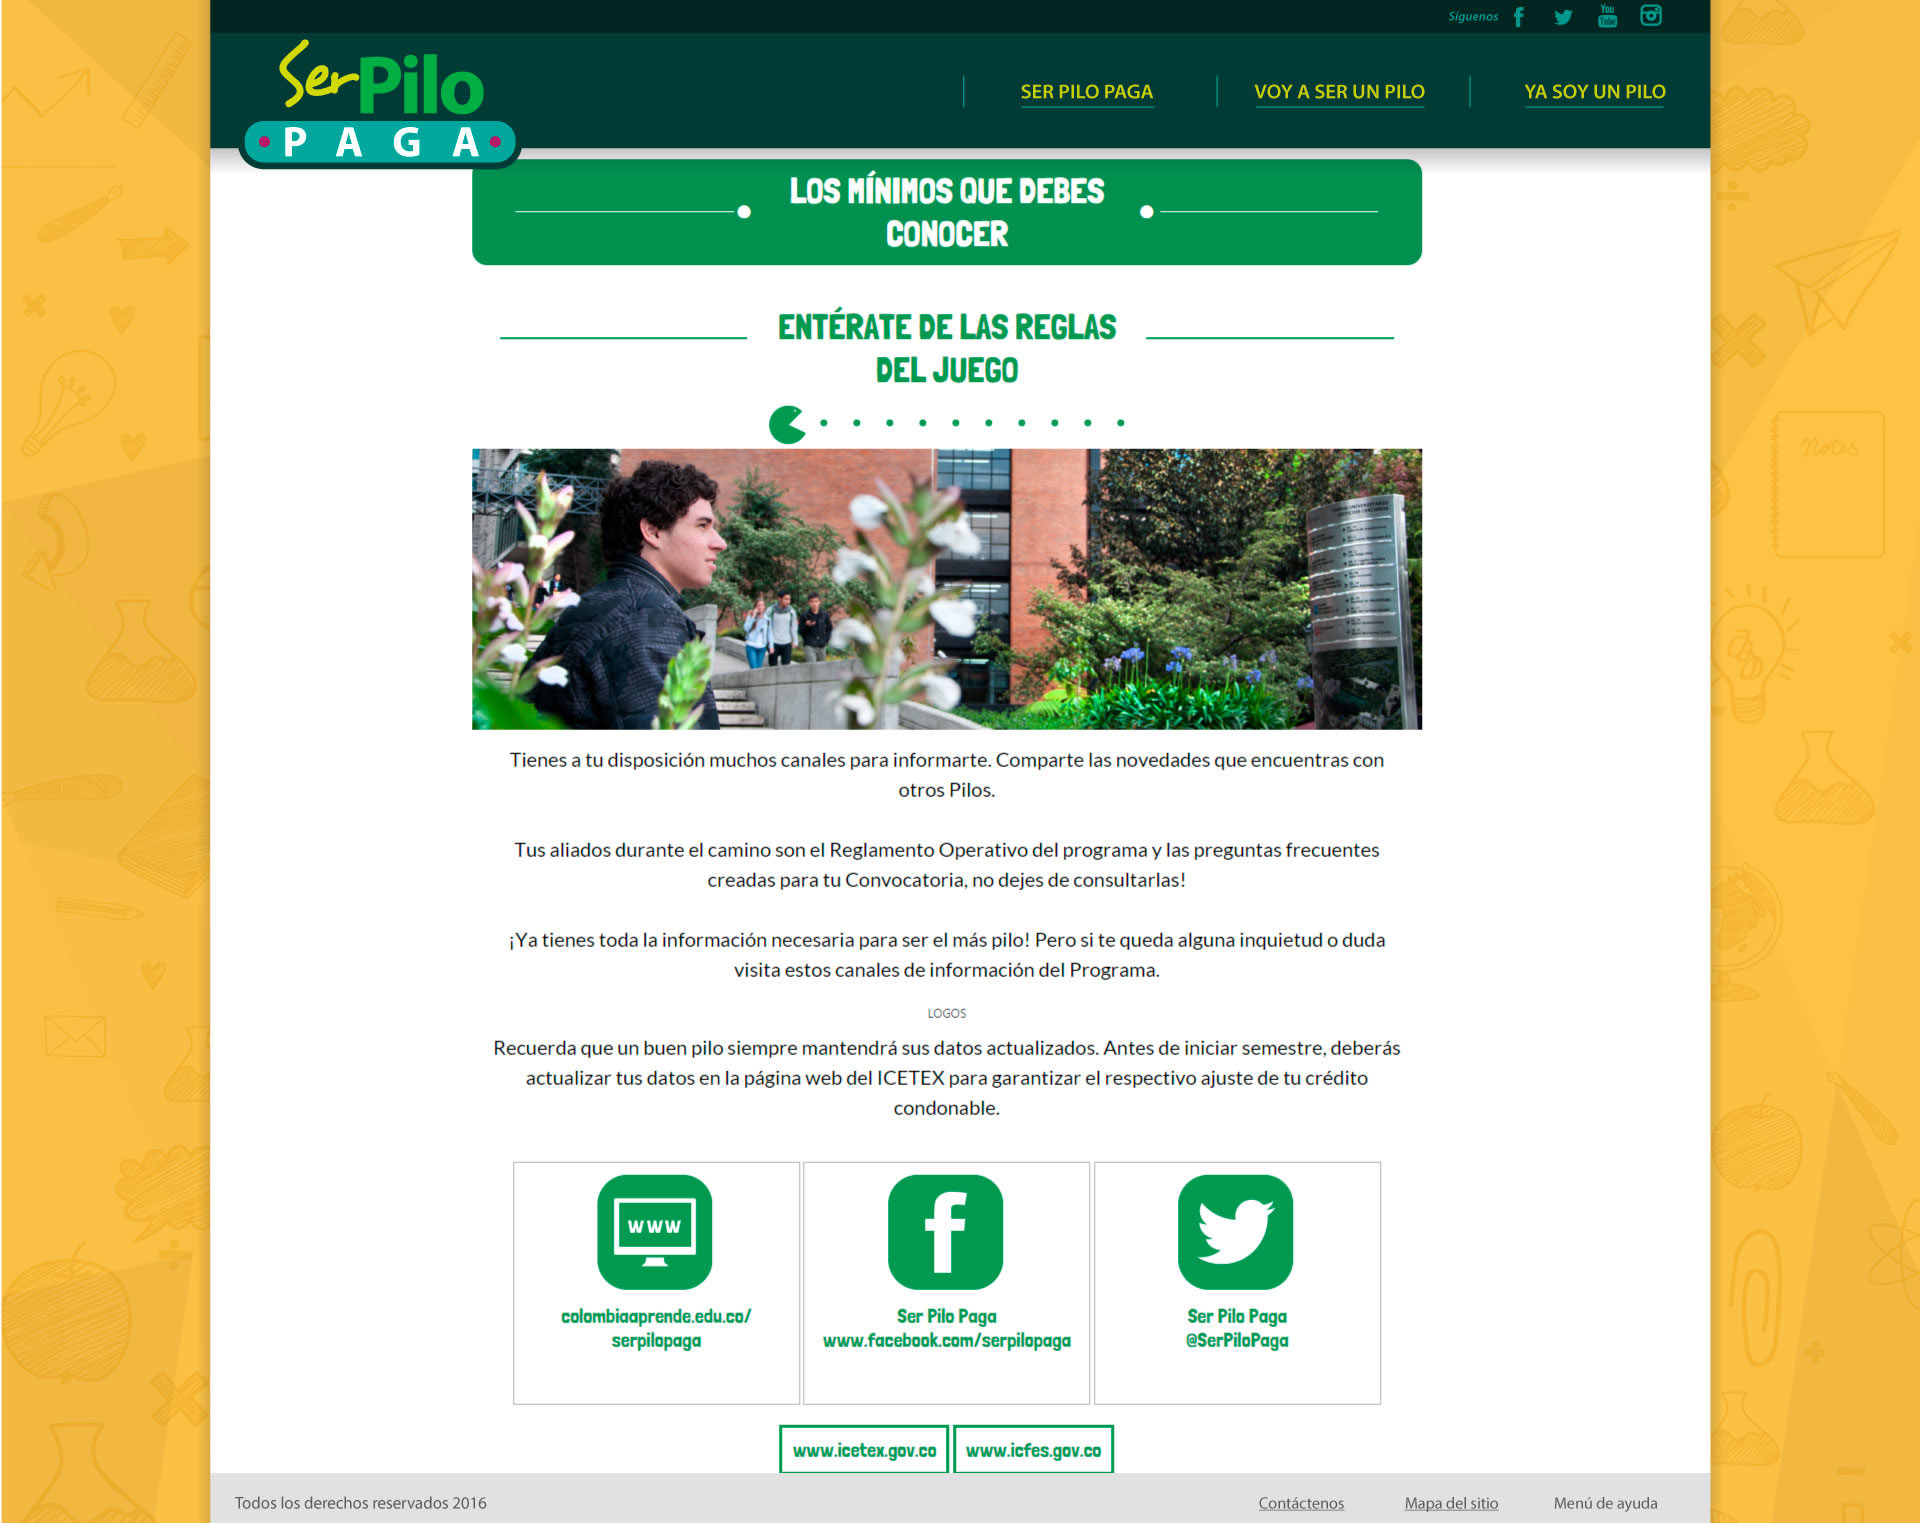
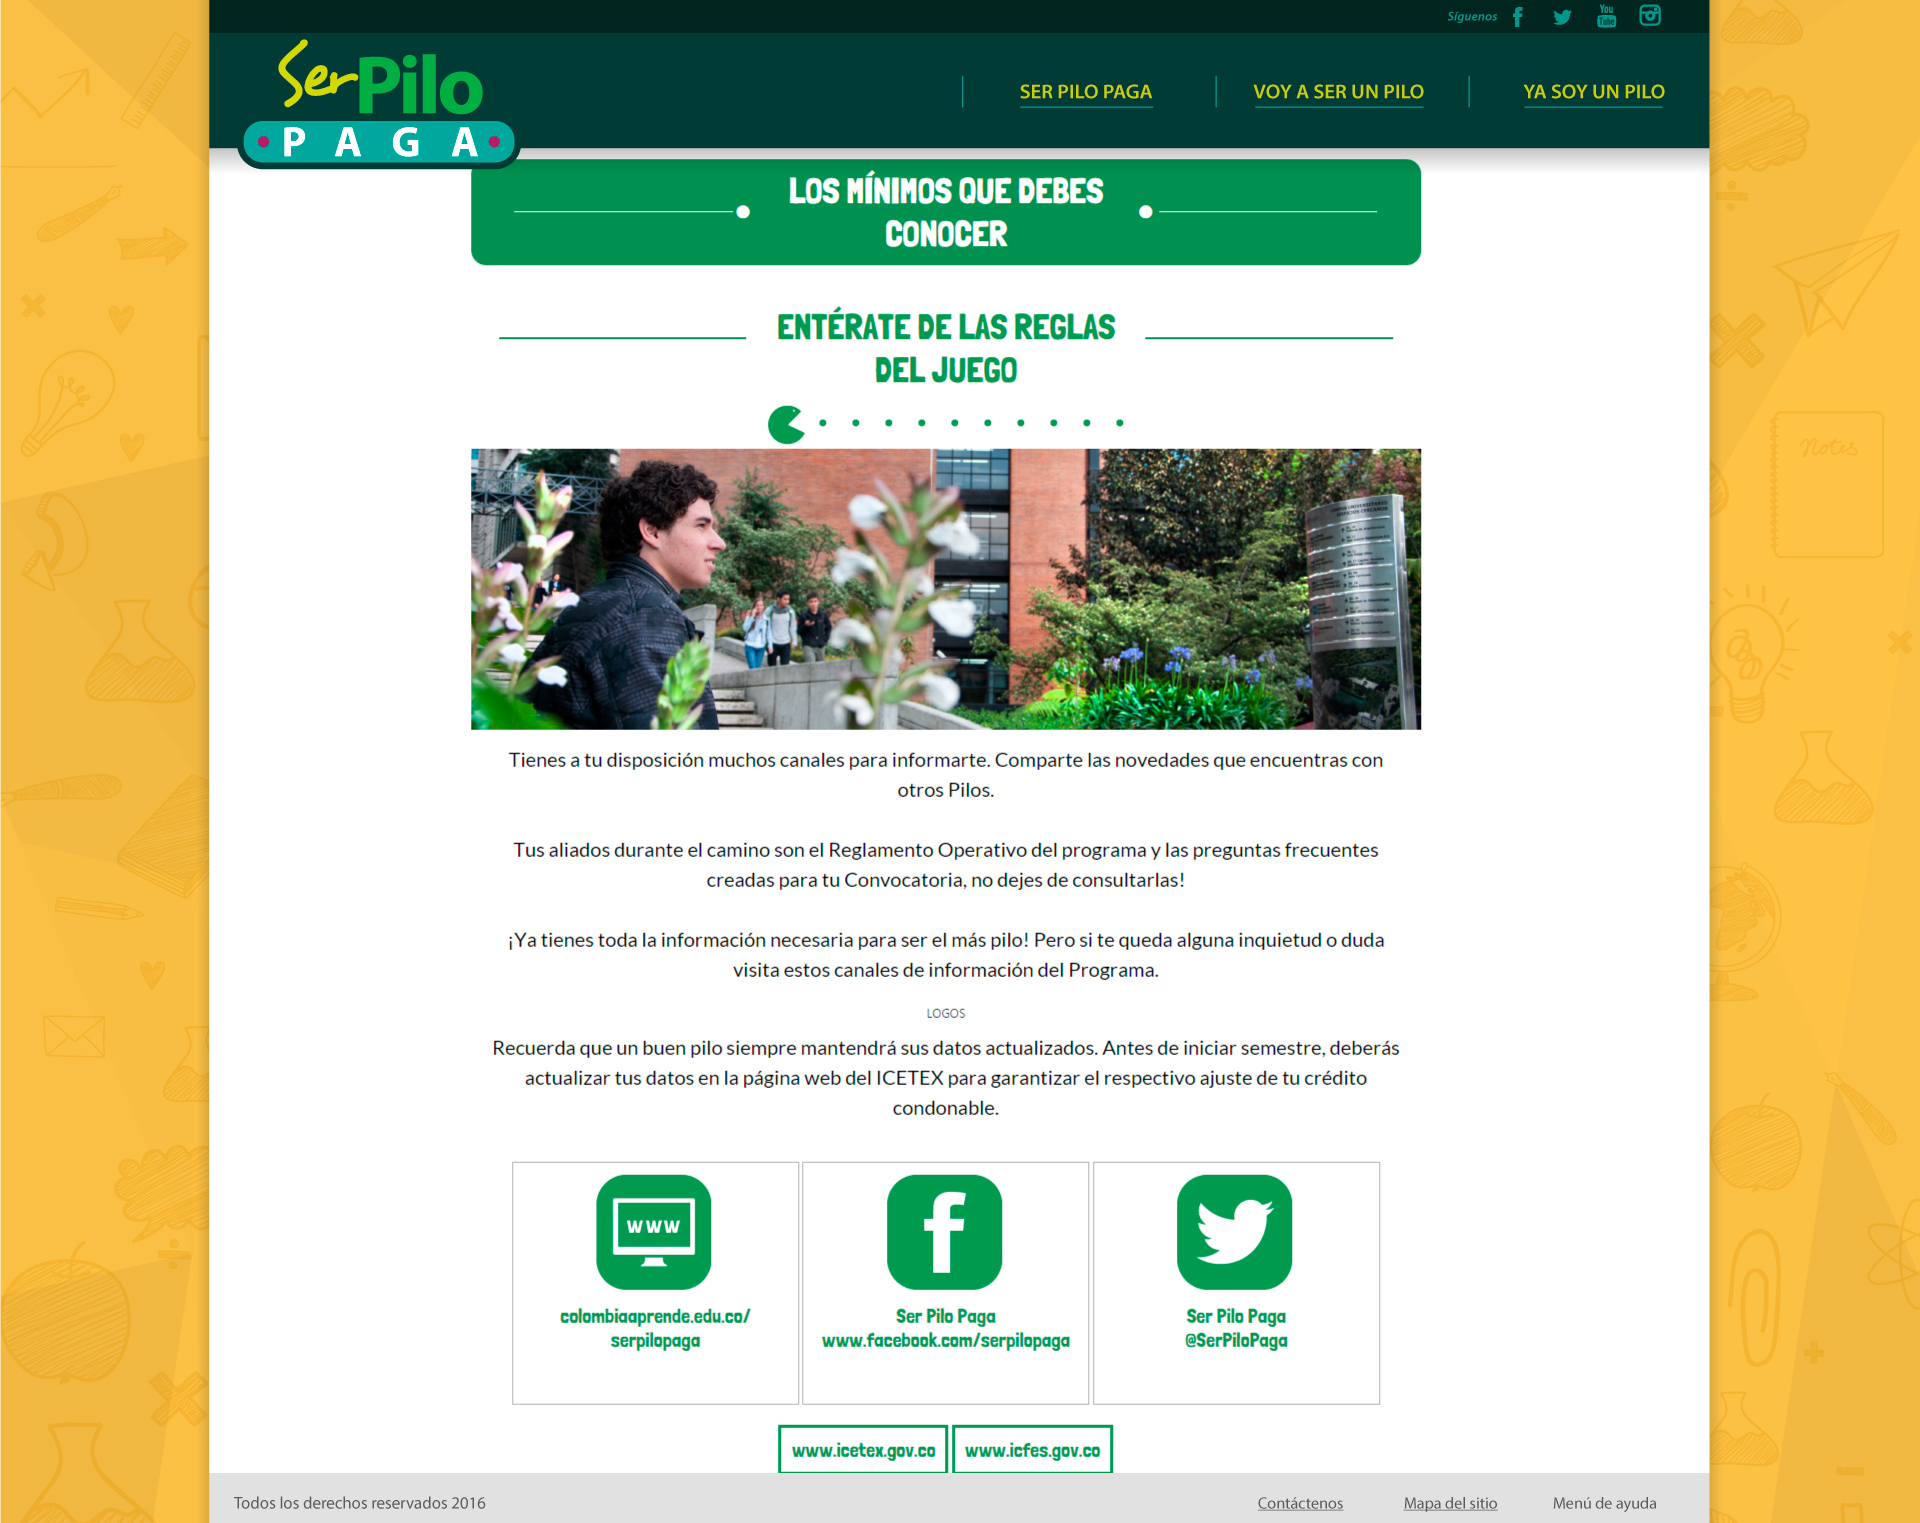
correcciones en el script

diff --git a/correccion/index.html b/correccion/index.html
@@ -9,12 +9,23 @@
 $( document ).ready(function() {
 	var ww= $(window).width();
 	var fw=ww*10/192;
+	var intfw=parseInt(fw);
+	//console.log("-moz-transform","scale(0."+intfw+",0."+intfw+")");
 	$("html").css("zoom",fw+"%");
+	$("html").css("-moz-transform","scale(0."+intfw+",0."+intfw+")");
+	$("html").css("-moz-transform-origin","left top");
+	$("html").css("-ms-zoom","0."+intfw+");
+	$("html").css("-webkit-zoom","0."+intfw+");
 });
 $( window ).resize(function() {
  	var ww= $(window).width();
 	var fw=ww*10/192;
+	var intfw=parseInt(fw);
 	$("html").css("zoom",fw+"%");
+	$("html").css("-moz-transform","scale(0."+intfw+",0."+intfw+")");
+	$("html").css("-moz-transform-origin","left top");
+	$("html").css("-ms-zoom","0."+intfw+");
+	$("html").css("-webkit-zoom","0."+intfw+");
 });
 </script>
 <meta http-equiv="Content-Type" content="text/html; charset=utf-8" />

diff --git a/correccion/minimos.html b/correccion/minimos.html
@@ -9,12 +9,23 @@
 $( document ).ready(function() {
 	var ww= $(window).width();
 	var fw=ww*10/192;
+	var intfw=parseInt(fw);
+	//console.log("-moz-transform","scale(0."+intfw+",0."+intfw+")");
 	$("html").css("zoom",fw+"%");
+	$("html").css("-moz-transform","scale(0."+intfw+",0."+intfw+")");
+	$("html").css("-moz-transform-origin","left top");
+	$("html").css("-ms-zoom","0."+intfw+");
+	$("html").css("-webkit-zoom","0."+intfw+");
 });
 $( window ).resize(function() {
  	var ww= $(window).width();
 	var fw=ww*10/192;
+	var intfw=parseInt(fw);
 	$("html").css("zoom",fw+"%");
+	$("html").css("-moz-transform","scale(0."+intfw+",0."+intfw+")");
+	$("html").css("-moz-transform-origin","left top");
+	$("html").css("-ms-zoom","0."+intfw+");
+	$("html").css("-webkit-zoom","0."+intfw+");
 });
 </script>
 <meta http-equiv="Content-Type" content="text/html; charset=utf-8" />

diff --git a/correccion/quees.html b/correccion/quees.html
@@ -9,12 +9,23 @@
 $( document ).ready(function() {
 	var ww= $(window).width();
 	var fw=ww*10/192;
+	var intfw=parseInt(fw);
+	//console.log("-moz-transform","scale(0."+intfw+",0."+intfw+")");
 	$("html").css("zoom",fw+"%");
+	$("html").css("-moz-transform","scale(0."+intfw+",0."+intfw+")");
+	$("html").css("-moz-transform-origin","left top");
+	$("html").css("-ms-zoom","0."+intfw+");
+	$("html").css("-webkit-zoom","0."+intfw+");
 });
 $( window ).resize(function() {
  	var ww= $(window).width();
 	var fw=ww*10/192;
+	var intfw=parseInt(fw);
 	$("html").css("zoom",fw+"%");
+	$("html").css("-moz-transform","scale(0."+intfw+",0."+intfw+")");
+	$("html").css("-moz-transform-origin","left top");
+	$("html").css("-ms-zoom","0."+intfw+");
+	$("html").css("-webkit-zoom","0."+intfw+");
 });
 </script>
 <meta http-equiv="Content-Type" content="text/html; charset=utf-8" />

diff --git a/correccion/requisitos.html b/correccion/requisitos.html
@@ -9,12 +9,23 @@
 $( document ).ready(function() {
 	var ww= $(window).width();
 	var fw=ww*10/192;
+	var intfw=parseInt(fw);
+	//console.log("-moz-transform","scale(0."+intfw+",0."+intfw+")");
 	$("html").css("zoom",fw+"%");
+	$("html").css("-moz-transform","scale(0."+intfw+",0."+intfw+")");
+	$("html").css("-moz-transform-origin","left top");
+	$("html").css("-ms-zoom","0."+intfw+");
+	$("html").css("-webkit-zoom","0."+intfw+");
 });
 $( window ).resize(function() {
  	var ww= $(window).width();
 	var fw=ww*10/192;
+	var intfw=parseInt(fw);
 	$("html").css("zoom",fw+"%");
+	$("html").css("-moz-transform","scale(0."+intfw+",0."+intfw+")");
+	$("html").css("-moz-transform-origin","left top");
+	$("html").css("-ms-zoom","0."+intfw+");
+	$("html").css("-webkit-zoom","0."+intfw+");
 });
 </script>
 <meta http-equiv="Content-Type" content="text/html; charset=utf-8" />
